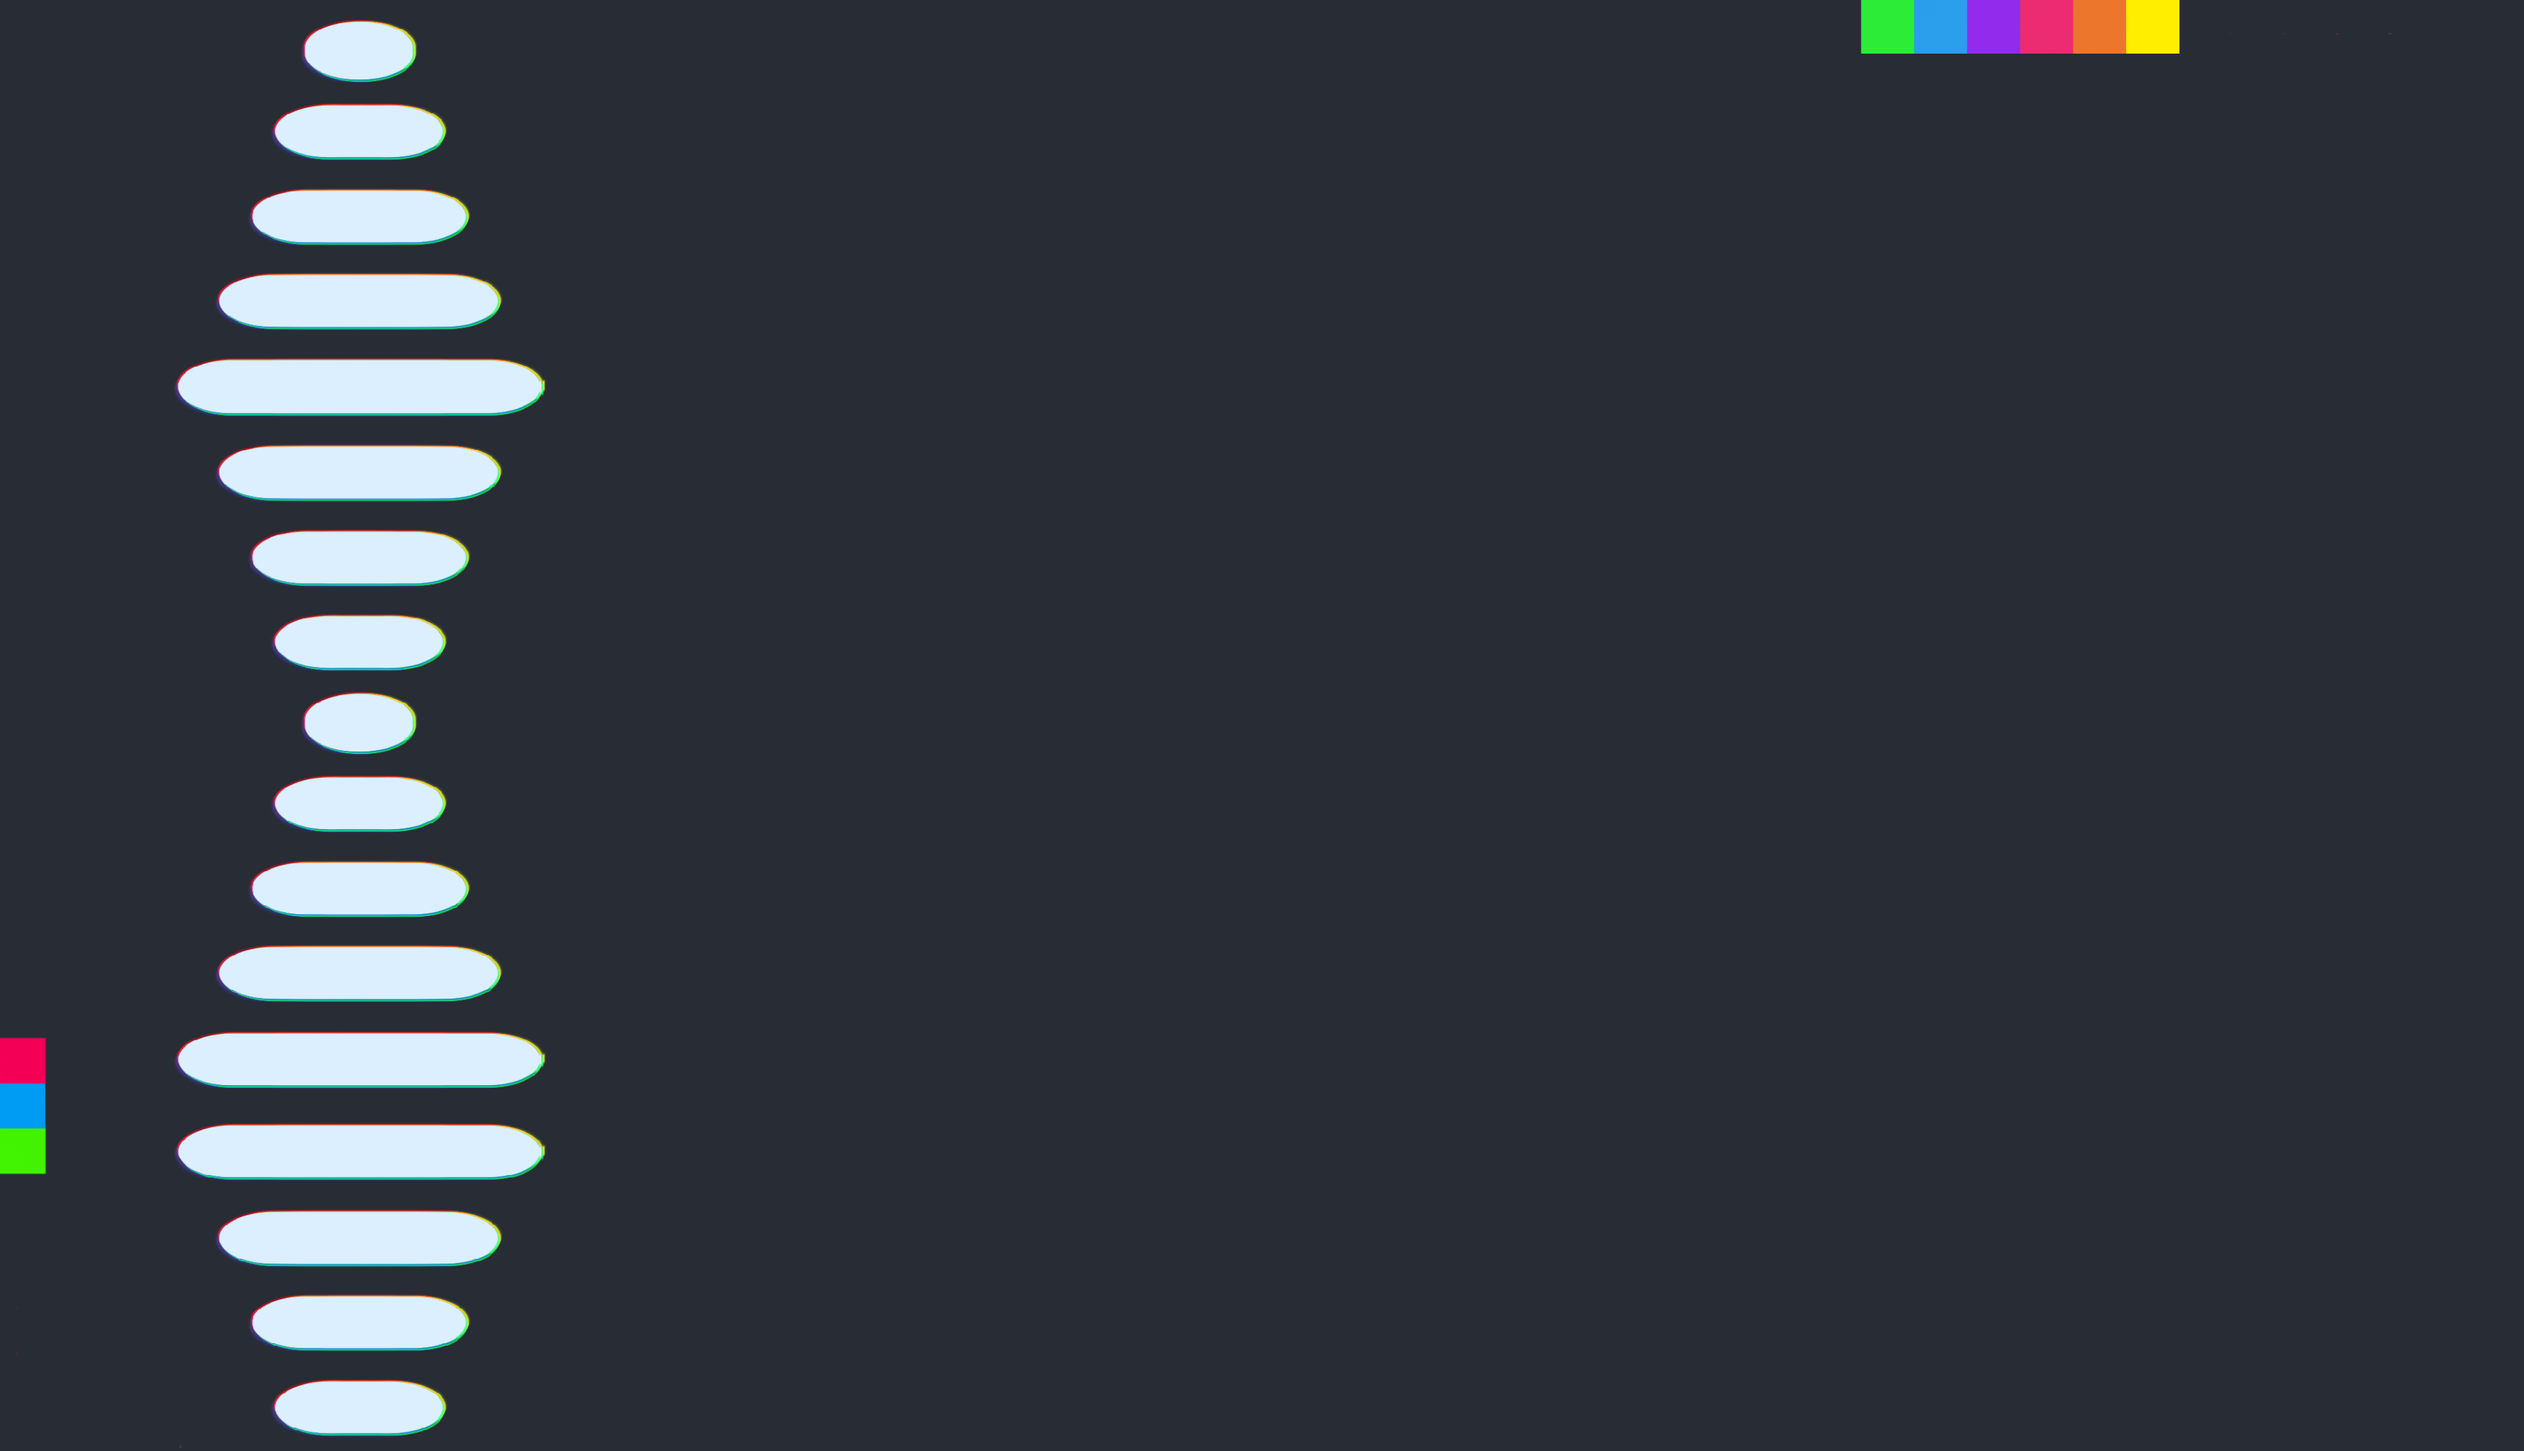
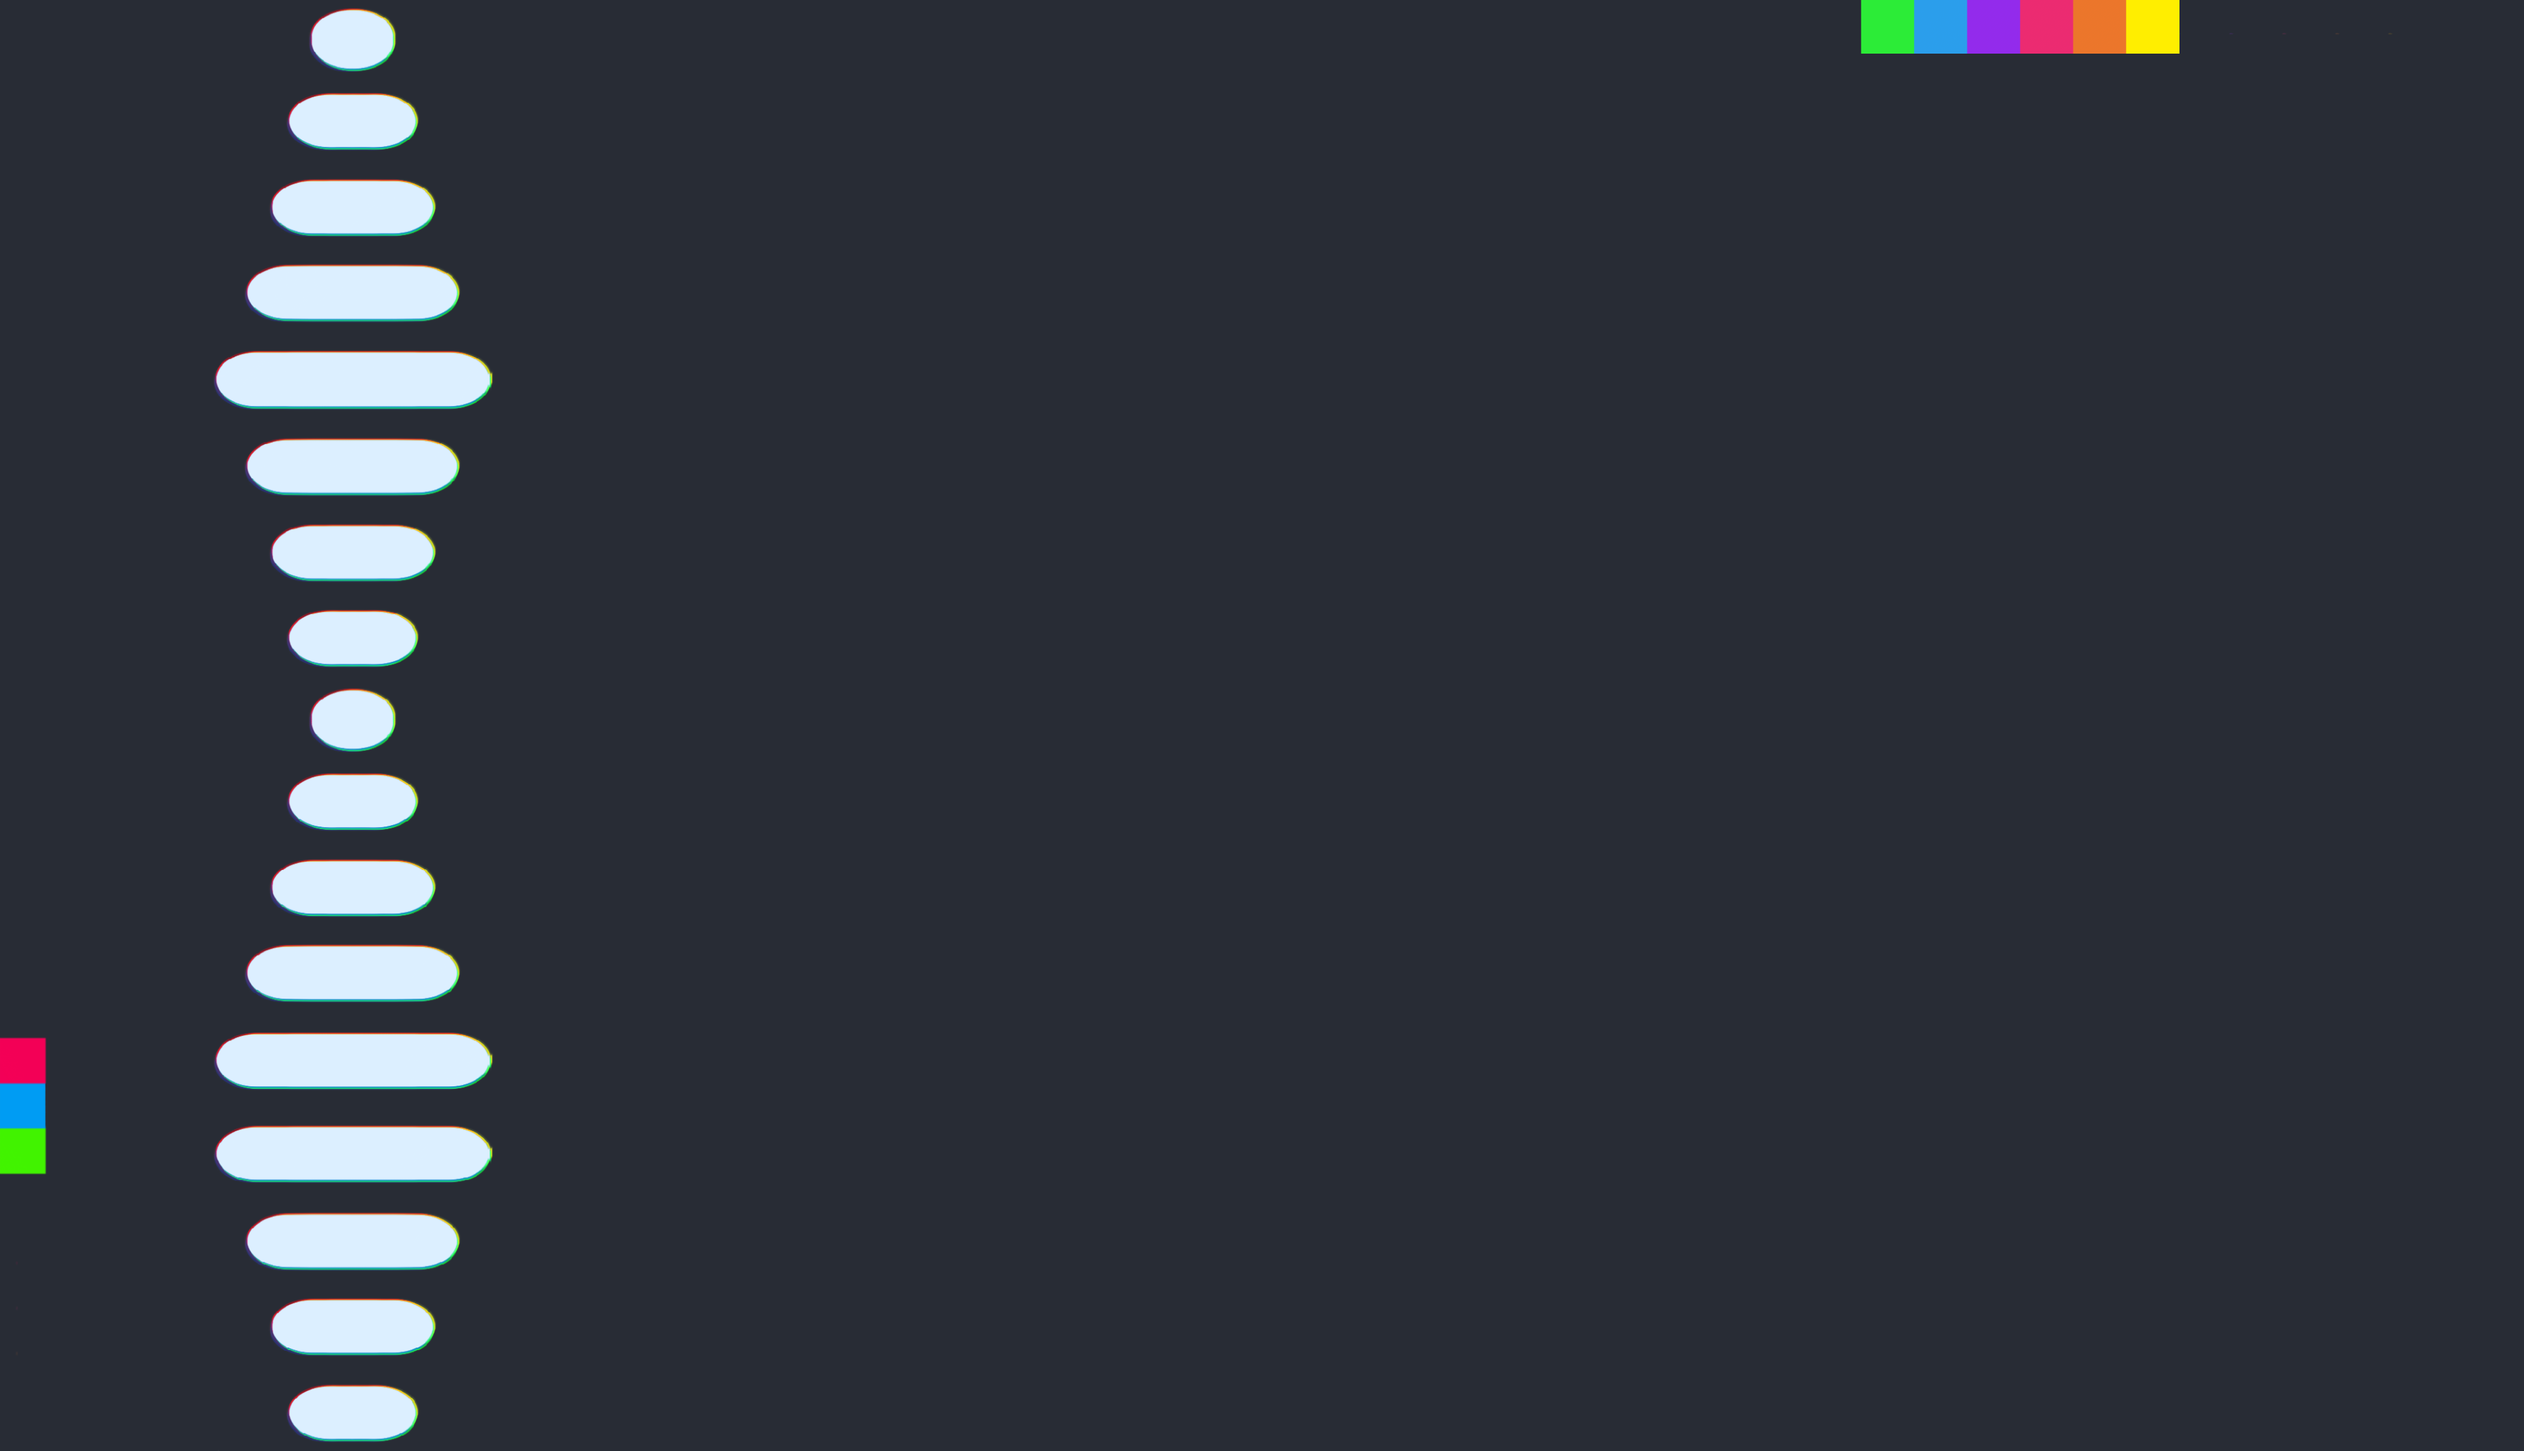
changed background a bit

diff --git a/assets/css/main.css b/assets/css/main.css
@@ -46,7 +46,7 @@ body {
 }
 
 #menu[data-active-index="1"] > #menu-background-pattern {
-  background-position: 0% -3240%;
+  background-position: 00% -3240%;
 }
 
 #menu[data-active-index="2"] > #menu-background-pattern {
@@ -76,7 +76,7 @@ body {
 }
 
 #menu-items:hover ~ #menu-background-pattern {
-  background-size: 96.5% 96.5%;
+  background-size: 98.2% 97%;
   opacity: 0.5;
 }
 
